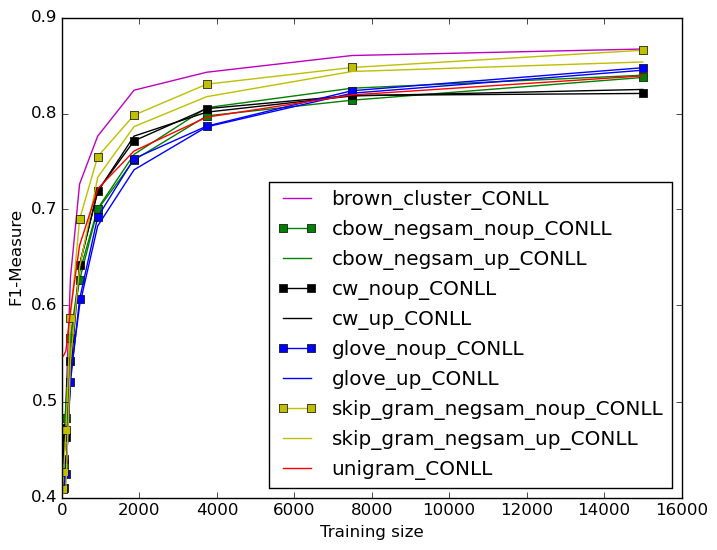
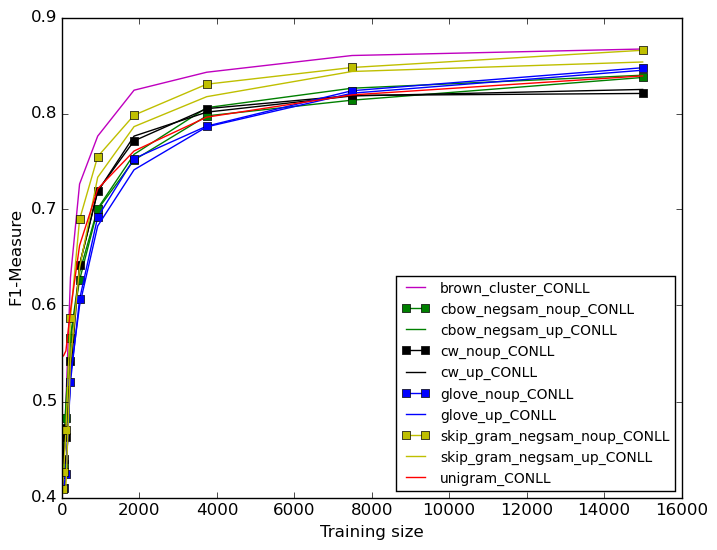
updated plots with alpha order and colored methods across the figures

Changed region(s): [[0.3682, 0.3091, 0.9512, 0.8964]]

diff --git a/plots/NERoutOfVocIN.py b/plots/NERoutOfVocIN.py
@@ -39,8 +39,7 @@ marker = ''
 linestyle = '-'
 noupMarker = 's'
 walk_dir = inputfolder
-legParams = {'legend.fontsize': 10,
-          'legend.linewidth': 0.4}
+legParams = {'legend.fontsize': 10}
 
 alist_filter = ['brown_cluster_v4000_best.txt', 
 	'cbow_negsam_noupdated_best.txt', 
@@ -156,7 +155,7 @@ for root, subdirs, files in sortedWalk(walk_dir):
 plt.xlabel('Training size')
 plt.ylabel('F1-Measure')
 
-# plt.rcParams.update(legParams)
+plt.rcParams.update(legParams)
 plt.legend(loc='lower right')
 savefig(outputfile, bbox_inches='tight')
 #plt.show()

diff --git a/plots/NERoutOfVocOUT.py b/plots/NERoutOfVocOUT.py
@@ -39,8 +39,7 @@ marker = ''
 linestyle = '-'
 noupMarker = 's'
 walk_dir = inputfolder
-legParams = {'legend.fontsize': 10,
-          'legend.linewidth': 0.4}
+legParams = {'legend.fontsize': 10}
 
 alist_filter = ['brown_cluster_v4000_best.txt', 
 	'cbow_negsam_noupdated_best.txt', 
@@ -151,7 +150,7 @@ for root, subdirs, files in sortedWalk(walk_dir):
 plt.xlabel('Training size')
 plt.ylabel('F1-Measure')
 
-# plt.rcParams.update(legParams)
+plt.rcParams.update(legParams)
 plt.legend(loc='lower right')
 savefig(outputfile, bbox_inches='tight')
 #plt.show()

diff --git a/plots/MWEoutOfVoc.py b/plots/MWEoutOfVoc.py
@@ -40,8 +40,7 @@ color = 'r'
 linestyle = '-'
 noupMarker = 's'
 walk_dir = inputfolder
-legParams = {'legend.fontsize': 10,
-          'legend.linewidth': 0.4}
+legParams = {'legend.fontsize': 10}
 
 alist_filter = ['brown_cluster_v4000_best.txt', 
 #	'cbow_negsam_noupdated_best.txt', 
@@ -157,7 +156,8 @@ plt.title('Out of vocabulary words')
 plt.xlabel('Training size')
 plt.ylabel('Accuracy')
 
-plt.legend(loc='best')
+plt.rcParams.update(legParams)
+plt.legend(loc='lower right')
 savefig(outputfile, bbox_inches='tight')
 #plt.show()
 
